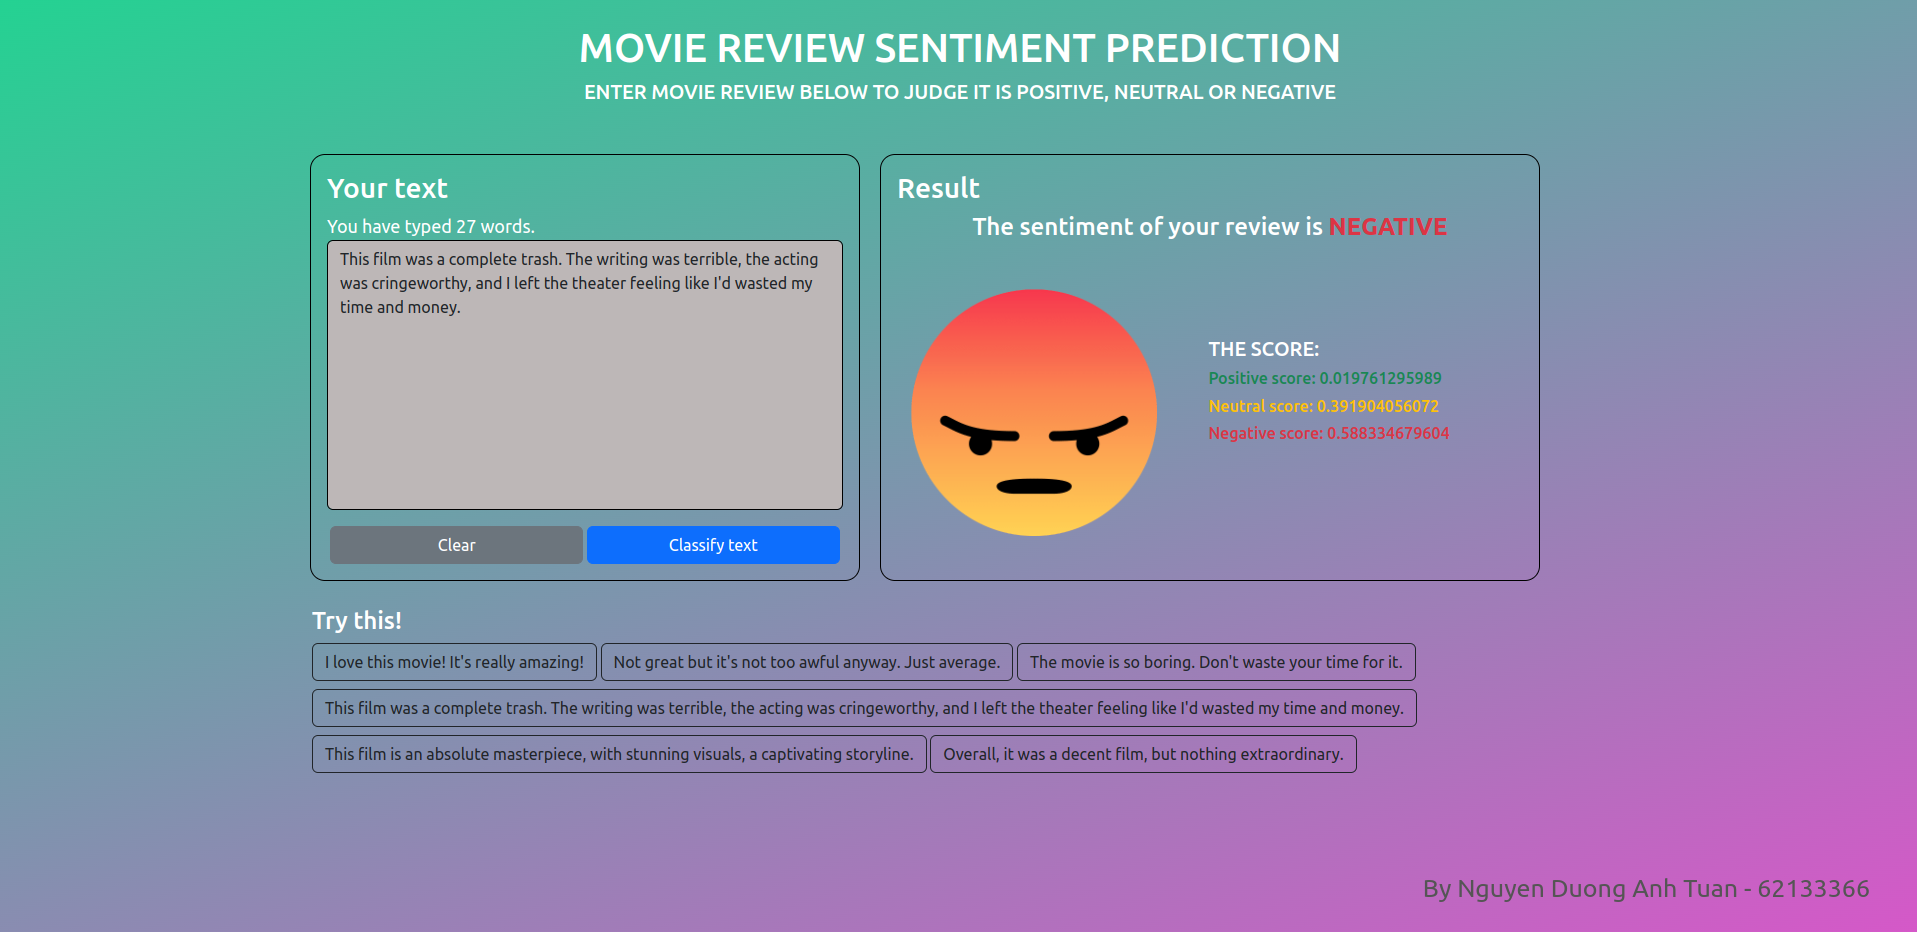
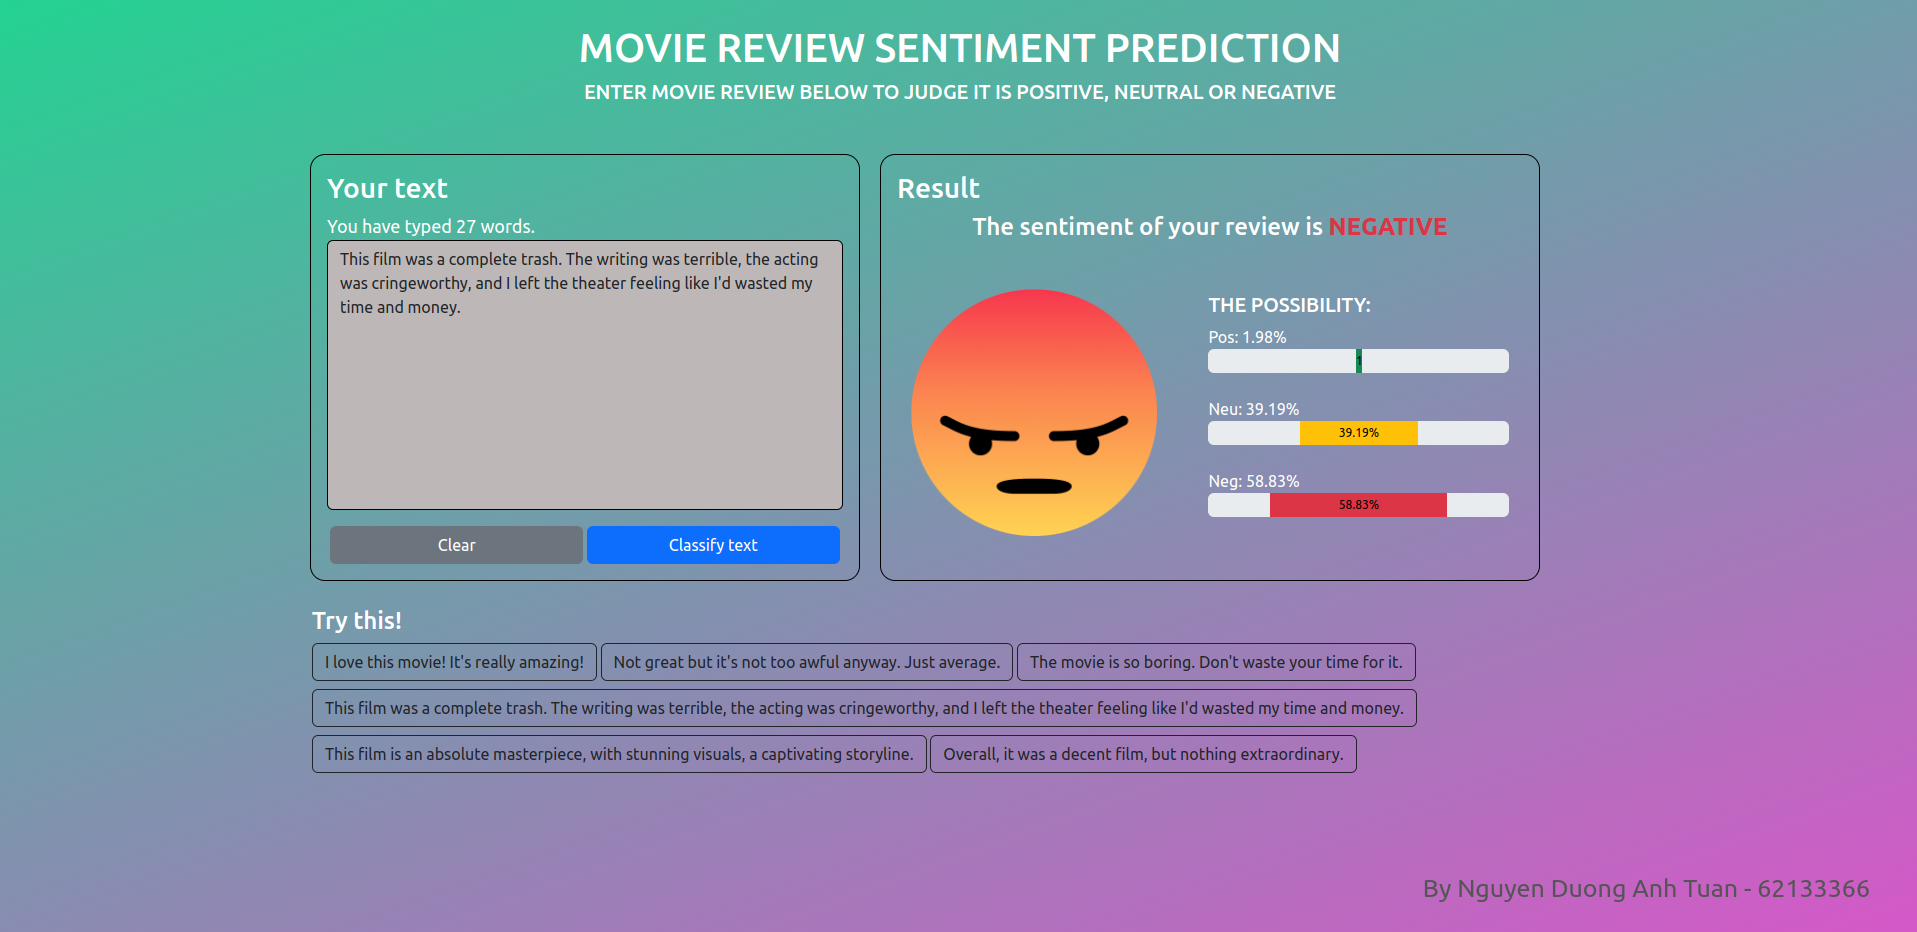
fix: improve visual

Changed region(s): [[0.6155, 0.3112, 0.8002, 0.5601]]

diff --git a/sa_app/templates/index.html b/sa_app/templates/index.html
@@ -5,6 +5,7 @@
     <meta charset="utf-8">
     <meta name="viewport" content="width=device-width, initial-scale=1">
     <link href="https://cdn.jsdelivr.net/npm/bootstrap@5.3.3/dist/css/bootstrap.min.css" rel="stylesheet">
+    <script src="https://cdn.jsdelivr.net/npm/bootstrap@5.3.3/dist/js/bootstrap.bundle.min.js"></script>
     <link href="{% static 'index/css/index.css' %}" rel="stylesheet"/>
     <title>Movie Reviews Sentiment Analysis</title>
 </head>
@@ -59,12 +60,31 @@
                                     <img class="text-center" src="{% static 'index/images/negative.png' %}" alt="" width="100%">
                                 {% endif %}
                             </div>
-                            <div class="col-sm-6 mt-5" style="text-align: left;">
-                                <h5>THE SCORE:</h5>
-                                <h6 class="text-success">Positive score: {{ output.2 }}</h6>
-                                <h6 class="text-warning">Neutral score: {{ output.1 }}</h6>
-                                <h6 class="text-danger">Negative score: {{ output.0 }}</h6>
-                            </div>
+                            <div class="col-sm-6 mt-1" style="text-align: left;">
+                                <h5>THE POSSIBILITY:</h5>
+                                <div style="text-align: left;">
+                                    <span>Pos: {{ output.2 }}%</span>
+                                    <div class="progress progress-line" style="height: 1.5rem;">
+                                        <div class="progress-bar bg-success" role="progressbar" style="width: {{ output.2 }}%; text-align: left;" aria-valuenow="{{ output.2 }}" aria-valuemin="0" aria-valuemax="100">
+                                            <span class="text-black">{{ output.2 }}%</span>
+                                        </div>
+                                    </div>
+                                    <br>
+                                    <span>Neu: {{ output.1 }}%</span>
+                                    <div class="progress progress-line" style="height: 1.5rem;">
+                                        <div class="progress-bar bg-warning" role="progressbar" style="width: {{ output.1 }}%; text-align: left;" aria-valuenow="{{ output.1 }}" aria-valuemin="0" aria-valuemax="100">
+                                            <span class="text-black">{{ output.1 }}%</span>
+                                        </div>
+                                    </div>
+                                    <br>
+                                    <span>Neg: {{ output.0 }}%</span>
+                                    <div class="progress progress-line" style="height: 1.5rem;">
+                                        <div class="progress-bar bg-danger" role="progressbar" style="width: {{ output.0 }}%; text-align: left;" aria-valuenow="{{ output.0 }}" aria-valuemin="0" aria-valuemax="100">
+                                            <span class="text-black">{{ output.0 }}%</span>
+                                        </div>
+                                    </div>
+                                </div>
+                            </div>                                                       
                         </div>
                     {% endif %}
                 </div>

diff --git a/sa_app/predict.py b/sa_app/predict.py
@@ -124,7 +124,8 @@ def predict(sentence):
     
     output, _ = model(text_tensor, h)
     predicted = output.flatten().cpu().detach().numpy()
-    output = output = ["{:.12f}".format(num) for num in predicted]
+
+    output = ["{:.2f}".format(num * 100) for num in predicted]
     pred = np.argmax(predicted)
     
     return output, pred
